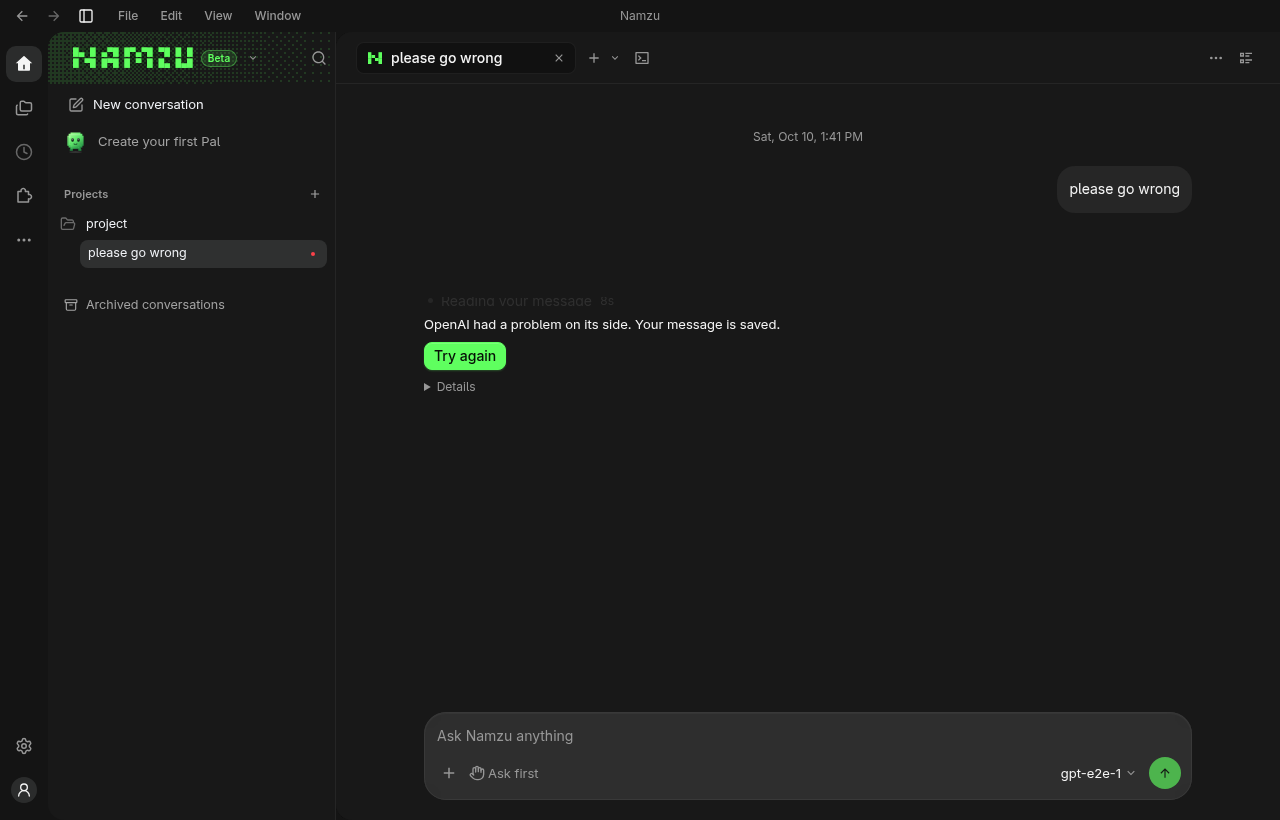
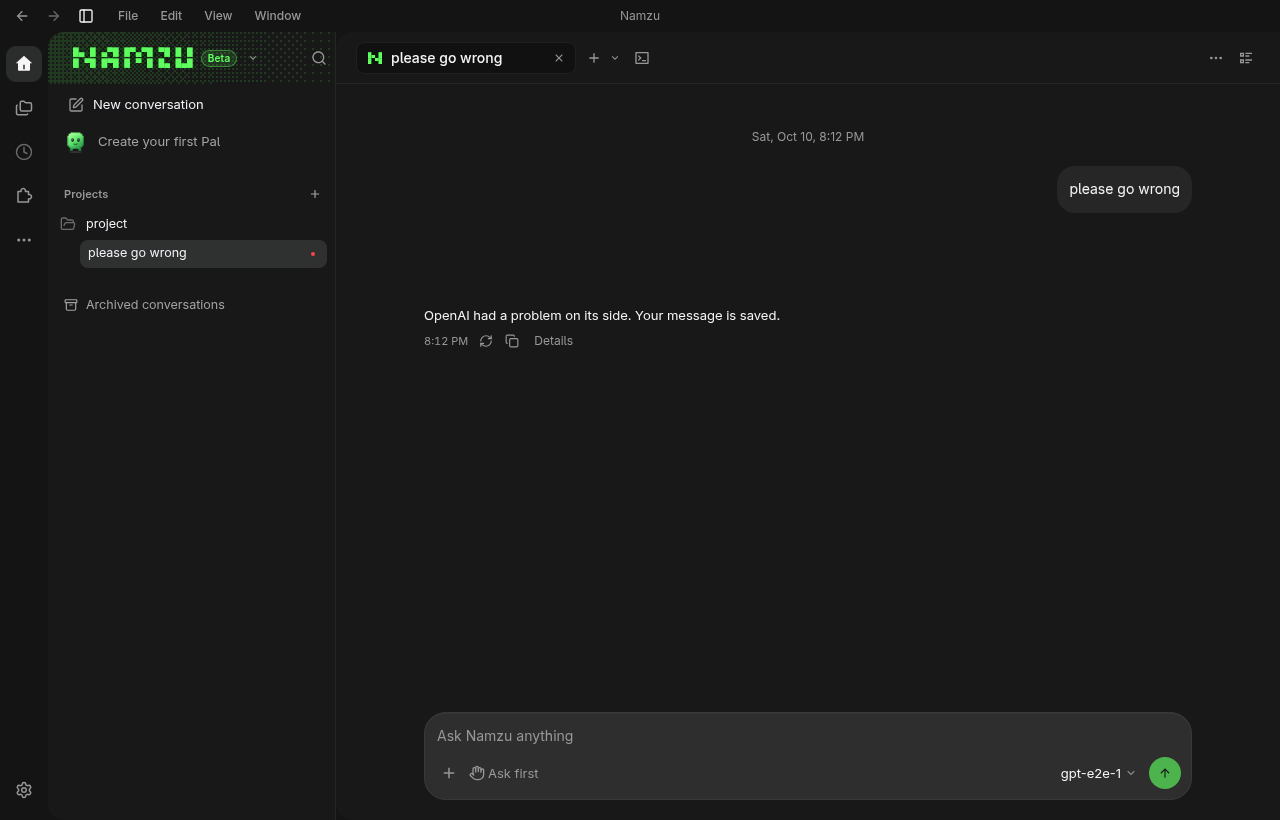
fix(desktop): drop the usage line from Details of a reply that failed before any answer

diff --git a/packages/desktop/src/renderer/friendly-errors.test.ts b/packages/desktop/src/renderer/friendly-errors.test.ts
@@ -5,7 +5,6 @@ import {
 	providerName,
 	sanitizeDetails,
 	unknownUsageDetail,
-	withUnknownUsage,
 } from './friendly-errors.js'
 
 const JARGON = /HTTP|\b[45]\d\d\b|receipt|retained|token|unresolved|<|JSON/i
@@ -75,9 +74,7 @@ describe('provider replies', () => {
 			'openai (HTTP 400) — the request exceeded the model context window: maximum context length is 128000 tokens, you sent 131452 tokens',
 		)
 		expect(context.details).toContain('131,452')
-		expect(withUnknownUsage([html])[0]?.details).toMatch(
-			/\nNo usage was reported for the failed attempts\.$/,
-		)
+		expect(html.details).not.toMatch(/usage/i)
 	})
 })
 
@@ -169,7 +166,7 @@ describe('describeBlockedRetry', () => {
 		expect(blocked.text).not.toMatch(JARGON)
 		expect(blocked.actions).toEqual(['continue'])
 		expect(blocked.text).toContain('Continue without this reply')
-		expect(blocked.details).toBe('No usage was reported for the failed attempts.')
+		expect(blocked.details).toBeUndefined()
 	})
 
 	it('offers to continue when the allowance is used up, and never shows the runtime wording', () => {
@@ -181,18 +178,23 @@ describe('describeBlockedRetry', () => {
 		expect(used.text).not.toMatch(JARGON)
 	})
 
-	it('adds what is unknown about usage to the details of a repeatable failure', () => {
-		const failure = describeFailure(
+	it.each([
+		[
+			'openai (HTTP 500) — the provider failed to complete the request: 500 Internal Server Error',
+			'OpenAI: the provider failed to complete the request (500 Internal Server Error)',
+		],
+		[
 			'openai (HTTP 502) — the provider failed to complete the request: 502 502 Bad Gateway',
-		)
-		expect(failure.details).toBe(
 			'OpenAI: the provider failed to complete the request (502 Bad Gateway)',
-		)
-		expect(failure.details).not.toMatch(/502 502/)
-		expect(withUnknownUsage([failure])[0]?.details).toBe(
-			'OpenAI: the provider failed to complete the request (502 Bad Gateway)\nNo usage was reported for the failed attempts.',
-		)
-		expect(withUnknownUsage([])).toEqual([])
+		],
+		[
+			'openai (HTTP 503) — the provider failed to complete the request: <html><head><title>503 Service Unavailable</title></head><body><h1>503 Service Unavailable</h1></body></html>',
+			'OpenAI: the provider failed to complete the request (503 Service Unavailable)',
+		],
+	])('a 5xx before any reply carries labelled details and no usage line: %s', (raw, details) => {
+		const failure = describeFailure(raw)
+		expect(failure.details).toBe(details)
+		expect(failure.details).not.toMatch(/usage|[{}<]/i)
 	})
 
 	it.each([

diff --git a/packages/desktop/src/renderer/friendly-errors.ts b/packages/desktop/src/renderer/friendly-errors.ts
@@ -89,7 +89,10 @@ const KEY_PROBLEM = /api key|invalid[_ ]key|unauthori[sz]ed|authentication/i
 
 const PROVIDER_FAILURE = /^([a-z0-9][a-z0-9-]*)(?: \(HTTP (\d{3})\))? — ([^:]+?)(?:: ([\s\S]*))?$/i
 
-/** What Details says about usage nobody reported for a request that failed. One send is one reply, however often it was retried. */
+/**
+ * What Details says when a reply did arrive but its provider never reported what it used. A
+ * request that failed before any reply came has nothing to report, so its Details carry no usage line.
+ */
 export function unknownUsageDetail(): string {
 	return 'No usage was reported for the failed attempts.'
 }
@@ -157,20 +160,6 @@ function plainProviderDetails(raw: string): string[] {
 		...(projectId ? [`${name} project: ${projectId}`] : []),
 		...(requestId ? [`Request ID: ${requestId}`] : []),
 	]
-}
-
-/** Add what is unknown about usage to the details a failure already carries. */
-export function withUnknownUsage(failures: readonly FriendlyFailure[]): FriendlyFailure[] {
-	if (failures.length === 0) return []
-	const sentence = unknownUsageDetail()
-	return failures.map((failure, index) =>
-		index === failures.length - 1
-			? {
-					...failure,
-					details: failure.details ? `${failure.details}\n${sentence}` : sentence,
-				}
-			: failure,
-	)
 }
 
 function withDetails(failure: Omit<FriendlyFailure, 'details'>, raw: string): FriendlyFailure {
@@ -369,7 +358,6 @@ export function describeBlockedRetry(notice: string): FriendlyFailure {
 			kind: 'cannot-repeat',
 			text: 'Namzu can’t repeat this reply, because this conversation has a limit and it can’t tell how much the provider counted before it stopped. Continue without this reply to put your message back in the message box and keep working here.',
 			actions: ['continue'],
-			details: UNKNOWN_USAGE_DETAIL,
 		}
 	return {
 		kind: 'cannot-repeat',

diff --git a/packages/desktop/src/renderer/app.tsx b/packages/desktop/src/renderer/app.tsx
@@ -123,7 +123,6 @@ import {
 	describeFailure,
 	lostConnectionText,
 	providerName,
-	withUnknownUsage,
 } from './friendly-errors.js'
 import { type EngineSurface, type EngineSurfaceControl, engineLabel } from './harness-picker.js'
 import {
@@ -4458,9 +4457,7 @@ export function App({
 		...(thread.error ? [describeFailure(thread.error, failedProviderLabel)] : []),
 		...(thread.retryNotice ? [describeBlockedRetry(thread.retryNotice)] : []),
 	]
-	const replyFailures = (
-		thread.retry && thread.retryUnknownUsage ? withUnknownUsage(baseFailures) : baseFailures
-	).map((failure) =>
+	const replyFailures = baseFailures.map((failure) =>
 		continueFailed === sessionId && failure.actions.includes('continue')
 			? { ...failure, actions: [...failure.actions, 'copy-to-new' as const] }
 			: failure,

diff --git a/docs/log.md b/docs/log.md
@@ -2,6 +2,7 @@
 
 ## 2026-10-10
 
+- **Update** [Desktop](cli/desktop.md#what-a-failed-reply-says): the Details of a reply that failed with a 500, 502 or 503 before any answer arrived carry no usage line (labelled fields only, the HTML summarised); "No usage was reported for the failed attempts." remains only for a reply that arrived without a usage count. Covered by `e2e/ux-provider-replies.test.mjs` for project and Pal conversations.
 - **Update** [Desktop host terminals](cli/desktop.md#host-terminals): review of the terminal-close marker sweep. Windows no longer gets the `NAMZU_TERMINAL_ID` variable, the `/proc` scan reads 64 environments at a time, the docs and changeset say a background service first started from a terminal (a `tmux` server, `ssh-agent`) is ended with it, and the two process tests kill their program even when an expectation fails.
 - **Update** [Desktop](cli/desktop.md#what-a-failed-reply-says): hygiene leftovers. An older Pal tab with an unsent draft or attachments stays open when the Pal's newest conversation opens; a newer toast waits behind an error toast instead of closing it (errors first, no duplicates); the model button's "Not available" carries its reason in the tooltip and accessible name; Details say "access was refused" instead of the runtime's credentials sentence, label a vendor project, and word unknown usage for failed attempts plainly; the app's own wording uses ’; a project whose folder is gone restores its unnamed conversations as one tab; the Speech section no longer repeats the page subtitle; a settings change that overtakes a conversation opening is the typed superseded error with a plain sentence. Covered by `e2e/ux-superseded-reads.test.mjs`, `e2e/ux-missing-project-tabs.test.mjs` and `e2e/ux-pal-start.test.mjs`.
 - **Update** [Terminal design](cli/terminal-design.md#compact-tool-activity): the terminal app headlines a read, search, write or edit from `ToolResult.facts` ("Read a.ts", "Searched for x · 2 matches in 2 files", "Edited a.ts +2 −1", "Created n.txt +2"), keeping the text fallback for conversations saved before facts; a provider picker with no hint line of its own (the setup key sits in its bottom key line); a `namzu.config.json` that is not valid JSON is reported as "namzu.config.json isn't valid JSON (line 3, column 5). Fix it, then start Namzu again." and the parser's own wording appears only with `--debug`.

diff --git a/docs/cli/desktop.md b/docs/cli/desktop.md
@@ -764,8 +764,9 @@ conversation has no token limit of its own (the ACP session is opened without `l
 5xx the stopped request is recorded as unknown usage and **Retry** sends a new request in the
 same conversation; **Details** then reads "OpenAI: the provider failed to complete the request (502
 Bad Gateway)", a labelled "Request ID: …" when the vendor sent one, a labelled vendor project ("OpenAI project: proj_…"; a 403
-reads "access was refused", never the runtime's own sentence about credentials), and "No usage was
-reported for the failed attempts." (one line however many attempts the driver made). Details say each thing
+reads "access was refused", never the runtime's own sentence about credentials). A request that
+failed before any reply arrived carries no usage line in Details; "No usage was reported for the
+failed attempts." appears only when a reply did arrive without a usage count. Details say each thing
 once: a repeated HTML title, "(no body)" and a duplicated status are dropped, and token counts are
 grouped ("131,452"). The status comes from `namzu/sessions/retry-status` as
 `{ retry, unknownUsage: <count> }`. A Pal conversation shows the same provider wait line and countdown

diff --git a/.changeset/desktop-5xx-details-no-usage-line.md b/.changeset/desktop-5xx-details-no-usage-line.md
@@ -1,0 +1,5 @@
+---
+'@namzu/desktop': patch
+---
+
+The Details of a reply that failed with a 500, 502 or 503 before any answer arrived no longer end with "No usage was reported for the failed attempts."; there was nothing to report. They read as labelled lines only (the provider, what failed, a request ID when the vendor sent one). The usage line stays for a reply that did arrive without a usage count.
